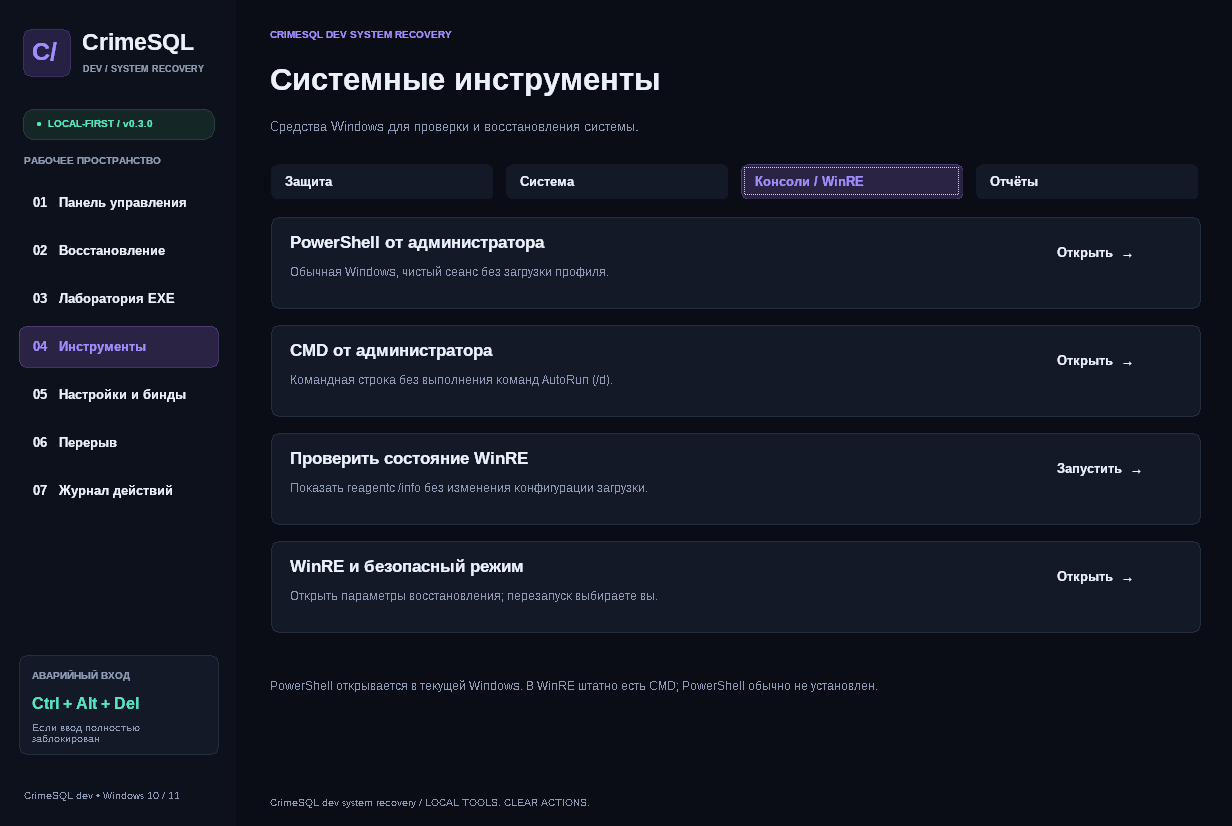
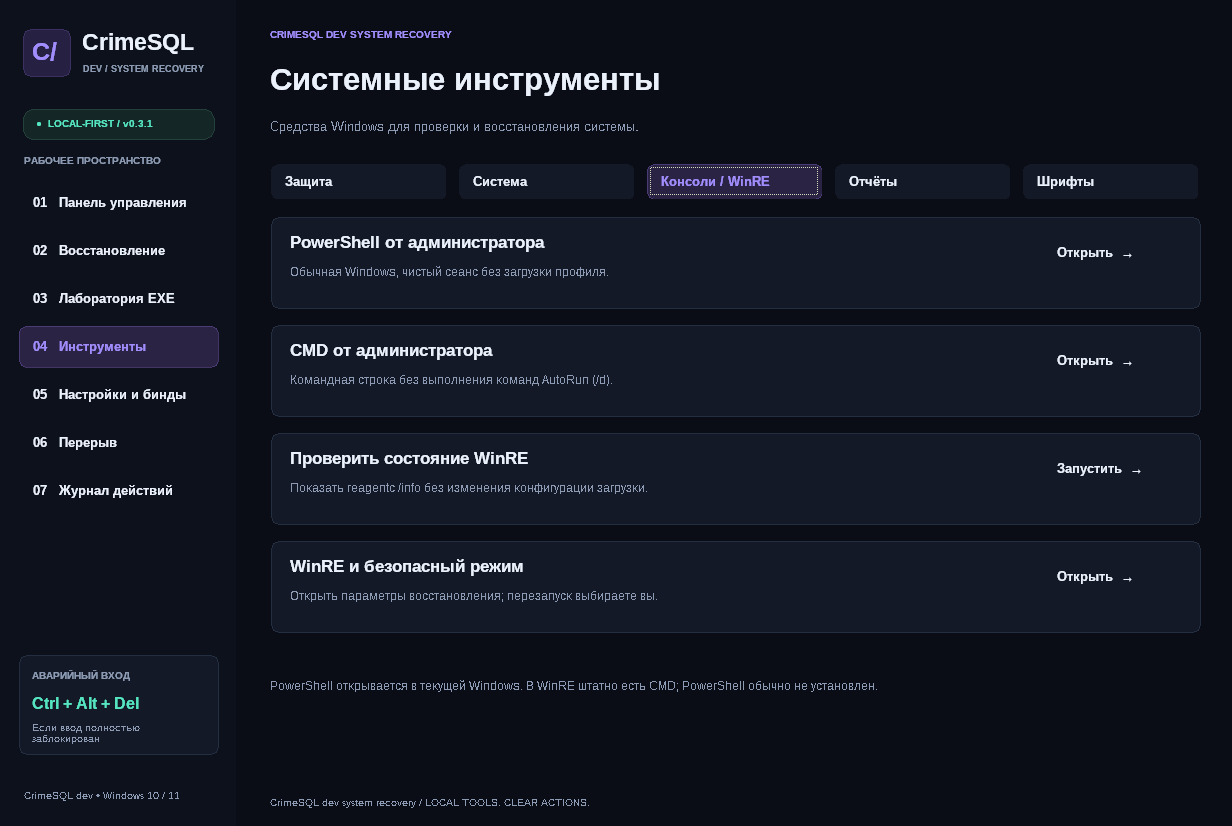
Document font recovery, rollback scope and verified Windows tests

Changed region(s): [[0.5244, 0.1816, 0.8945, 0.2421], [0.3701, 0.2119, 0.4627, 0.2421]]

diff --git a/README.md b/README.md
@@ -1,4 +1,4 @@
-# CrimeSQL dev system recovery · 0.3.0
+# CrimeSQL dev system recovery · 0.3.1
 
 Утилита восстановления Windows 10/11 x64 на C++17 / Win32 / GDI+. Исправленная буферизованная отрисовка, горячие клавиши, средства восстановления Windows, изолированная лаборатория EXE и шесть мини-игр.
 
@@ -6,7 +6,7 @@
 
 Снимок приложения под Wine. Сведения о компьютере относятся к тестовой среде.
 
-[Настройки и бинды](docs/settings-wine.png) · [Мини-игры](docs/games-wine.png) · [Консоли и WinRE](docs/tools-wine.png) · [Журнал безвредных тестовых событий](docs/observer-wine.png)
+[Настройки и бинды](docs/settings-wine.png) · [Мини-игры](docs/games-wine.png) · [Консоли и WinRE](docs/tools-wine.png) · [Восстановление шрифтов](docs/fonts-wine.png) · [Журнал безвредных тестовых событий](docs/observer-wine.png)
 
 ## Скачать и запустить
 
@@ -58,7 +58,7 @@
 
 ## Средства восстановления
 
-Раздел «Инструменты» содержит четыре вкладки:
+Раздел «Инструменты» содержит пять вкладок:
 
 | Вкладка | Возможности |
 |---|---|
@@ -66,6 +66,7 @@
 | Система | SFC `/verifyonly`, SFC `/scannow`, DISM `/Online /Cleanup-Image /RestoreHealth`, точки восстановления |
 | Консоли / WinRE | PowerShell администратора без профиля, CMD администратора без AutoRun, `reagentc /info`, параметры восстановления |
 | Отчёты | Аудит Run/RunOnce, настройки автозагрузки, сведения о системе, экспорт диагностики |
+| Шрифты | Восстановление настроек Segoe UI с копией `.reg`, параметры шрифтов Windows |
 
 **PowerShell администратора работает в текущей Windows. Это не отдельный «режим восстановления».** Для настоящего WinRE откройте «WinRE и безопасный режим», сохраните работу и выберите расширенный запуск в настройках Windows. В штатной WinRE обычно доступна командная строка CMD; PowerShell по умолчанию там не установлен.
 
@@ -74,6 +75,23 @@ SFC и DISM восстанавливают повреждения Windows, а н
 **Автономная проверка Defender перезагружает компьютер.** Она требует отдельного подтверждения, сохранённой работы и настроенного WinRE. При включённом BitLocker подготовьте ключ восстановления. Никаких автоматических перезагрузок при запуске приложения или диагностике нет.
 
 Аудит автозагрузки читает Run/RunOnce в HKCU/HKLM, включая 32-битное представление HKLM, и открывает локальный текстовый отчёт. Он ничего не удаляет и не охватывает службы, задачи планировщика и все способы закрепления. Проверьте личные пути и аргументы команд перед отправкой отчёта кому-либо.
+
+## Вернуть читаемые системные шрифты
+
+Откройте **Инструменты → Шрифты → Вернуть системные шрифты**, подтвердите изменение и запрос администратора Windows. Операция исправляет настройки стандартного семейства Segoe UI:
+
+- восстанавливает его регистрации в 64-битном `HKLM\Software\Microsoft\Windows NT\CurrentVersion\Fonts`;
+- удаляет подмены выбранных начертаний в `FontSubstitutes` HKLM и исходного пользователя, а также его регистрации, перекрывающие эти системные шрифты;
+- возвращает Segoe UI 9 pt для шести значений WindowMetrics: заголовков, малых заголовков, меню, статуса, сообщений и подписей значков;
+- на Windows 11 также обрабатывает Segoe UI Variable, если его файл присутствует. Отсутствующие необязательные начертания не регистрируются.
+
+Перед первой записью создаётся уникальная UTF-16 копия `Backups\Fonts-{GUID}.reg`, включая типы и данные исходных значений и удаление новых значений при откате. Запись и результат перепроверяются; при ошибке приложение пытается отменить свои изменения, не затирая обнаруженные параллельные правки. Ошибка копирования, чтения или отсутствие одного из четырёх основных файлов Segoe UI прерывает операцию до изменений. Некорректные строки, которые Windows нормализует при импорте `.reg`, отклоняются, поскольку точный откат для них не гарантирован.
+
+**После успеха сохраните работу, выйдите из учётной записи Windows и войдите снова.** Приложение не завершает сеанс автоматически. Пользовательские размеры шрифта этих элементов заменяются стандартными 9 pt с учётом системного DPI; остальные установленные шрифты, размеры окон, масштаб экрана и кэш шрифтов не очищаются.
+
+Если UAC выполняется под другой учётной записью администратора, реестр исходного пользователя выбирается по SID, а копия сохраняется в `Backups` той учётной записи, под которой выполняется повышенная операция. Точный полный путь показан в её результате. Для ручного отката проверьте `.reg` и импортируйте его с правами администратора, когда исходный пользователь вошёл в систему: записи `HKEY_USERS` содержат его SID.
+
+Это восстановление **настроек**, а не файлов шрифтов или удаление угроз. Наличие непустого файла не подтверждает его целостность. Если файлы удалены или повреждены, используйте **Инструменты → Система → проверка SFC**, затем при необходимости восстановление SFC/DISM. Шрифты не скачиваются с посторонних сайтов; неизвестные подмены других семейств не удаляются.
 
 ## Настройки, копии и мини-игры
 
@@ -110,3 +128,5 @@ ctest --test-dir build --output-on-failure
 ```
 
 `recovery_tests` проверяет политики и `.reg`. `feature_tests` — бинды, изоляцию конфигурации Sandbox, переименования и пары. `game_tests` — новые игры и команды восстановления. `windows_integration_tests` использует отдельный временный ключ HKCU и безвредную временную папку: проверяет резервные копии, отказы при устаревшем значении и реальные создание/переименование/удаление файлов через ReadDirectoryChangesW. Автозапуск, настройки доступности и реальные системные политики тест не меняет. `ui_tests` запускает отдельный процесс `--ui-test` и проверяет цвета кнопок, нажатия, 84 цикла навигации/размера, сворачивание, GDI-ресурсы и отсутствие таймера на статической странице. Отдельный Windows smoke-тест проверяет запуск PowerShell/CMD, справку SFC/DISM и сведения WinRE без исправлений и перезагрузки. Итоги и оставшиеся ручные проверки — [docs/validation.md](docs/validation.md).
+
+`font_recovery_tests` проверяет реальные записи и откат только во временных ключах реестра, включая импорт `.reg` через reg.exe и отказ в записи по DACL. Настоящие настройки системных шрифтов в тестах не меняются.

diff --git a/docs/validation.md b/docs/validation.md
@@ -1,15 +1,29 @@
-# Проверка версии 0.3.0
+# Проверка версии 0.3.1
+
+## Восстановление шрифтов
+
+Новый `font_recovery_tests` использует только собственные временные ключи HKCU и безвредные файлы, имитирующие наличие шрифтов. Настоящие HKLM Fonts, FontSubstitutes и WindowMetrics пользователя тест не меняет. Под Wine прошла 91 проверка, включая:
+
+- восстановление регистраций Segoe UI и условную обработку Segoe UI Variable;
+- удаление машинных и пользовательских подмен, сохранение посторонних значений;
+- восстановление шести бинарных LOGFONTW, в том числе 9 pt при тестовом DPI 144;
+- отказ до записи при отсутствующем обязательном файле, недопустимом DPI, ошибке создания копии, некорректной строке реестра;
+- настоящий импорт UTF-16 копии через `reg.exe`: восстановление исходных Unicode-строк, бинарных значений, пустого бинарного значения и DWORD, удаление значений, отсутствовавших до ремонта;
+- откат ранних изменений при позднем отказе записи в защищённый DACL временный ключ;
+- получение SID текущего пользователя и отказ помощника при некорректном SID.
+
+UI-тест открывает вкладку «Шрифты», вызывает настоящее подтверждение, проверяет кнопку «Нет» по умолчанию и отказывается от восстановления. Положительный путь с изменением настоящих шрифтов тест не выполняет. Локальный стресс-прогон прошёл; GDI под Wine по-прежнему явно пропущен.
 
 ## Автоматические проверки
 
-- Linux CMake Release с предупреждениями как ошибками: три набора CTest прошли. Политики — 44 проверки; прежние функции — 75; новые игры и команды восстановления — 7709 проверок, включая перебор 569 законченных партий крестиков-ноликов, проверку решаемости пятнашек/Lights Out и последовательности «Саймона».
+- Linux CMake Release с предупреждениями как ошибками: три набора CTest прошли. Политики — 44 проверки; прежние функции — 75; новые игры и команды восстановления — 7715 проверок, включая перебор 569 законченных партий крестиков-ноликов, проверку решаемости пятнашек/Lights Out и последовательности «Саймона».
 - Кросс-сборка Windows x64 через GCC / MinGW-w64 14 с `-Wall -Wextra -Wpedantic -Werror` проходит.
 - Windows-интеграционные проверки под Wine 10: 43 проверки реестра, резервных копий, временных файлов, настоящих уведомлений создания/удаления/переименования, сохранения конфигурации Sandbox и приоритета собственного процесса прошли.
-- Новый `ui_tests` запускает отдельный процесс приложения с тестовыми настройками. Проверяет все семь страниц, шесть игр и четыре категории инструментов, пиксели кнопок при стирании фона/отрисовке/нажатии/наведении, 84 цикла переключений и размеров, сворачивание и восстановление. Проверяется отсутствие таймера на статической странице и расход CPU ниже 150 мс за 600 мс простоя. Локальный прогон под Wine прошёл; измерено 0 мс CPU в этом интервале.
+- Новый `ui_tests` запускает отдельный процесс приложения с тестовыми настройками. Проверяет все семь страниц, шесть игр и пять категорий инструментов, пиксели кнопок при стирании фона/отрисовке/нажатии/наведении, 84 цикла переключений и размеров, сворачивание и восстановление. Проверяется отсутствие таймера на статической странице и расход CPU ниже 150 мс за 600 мс простоя. Локальный прогон под Wine прошёл; измерено 0 мс CPU в этом интервале.
 - Утечки GDI проверяются после прогрева всех страниц: число ресурсов не должно вырасти более чем на 12 после стресс-прогона. Wine не поддерживает GetGuiResources, поэтому **под Wine эта проверка пропущена**, а не считается успешной. На настоящем Windows-раннере нулевой или растущий счётчик приводит к ошибке теста.
-- В GitHub Actions Windows запускает все пять наборов тестов и `windows_readonly_smoke.ps1`. Smoke-тест запускает чистый Windows PowerShell и CMD `/d`, проверяет справку SFC/DISM, запрашивает `reagentc /info`, записывает наличие командлетов Defender. Также разбирает настоящие семь скриптов, сгенерированных C++, через PowerShell Parser, не выполняя их. Машинный отчёт `windows-readonly-smoke.json` включается в ZIP.
+- В GitHub Actions Windows запускает все шесть наборов тестов и `windows_readonly_smoke.ps1`. Smoke-тест запускает чистый Windows PowerShell и CMD `/d`, проверяет справку SFC/DISM, запрашивает `reagentc /info`, записывает наличие командлетов Defender. Также разбирает настоящие семь скриптов, сгенерированных C++, через PowerShell Parser, не выполняя их. Машинный отчёт `windows-readonly-smoke.json` включается в ZIP.
 
-Исходники версии 0.3.0 (`e81a8fd`) прошли [GitHub Actions № 6](https://github.com/Bezsmertny/SU---Added-by-Crimesql/actions/runs/38833007119): оба задания Windows и Linux успешны, включая все пять Windows-наборов, проверку GDI на настоящем Windows и PowerShell smoke-тест. Публикация ZIP разрешена workflow только после успешных заданий Windows и Linux для тега выпуска.
+Исходники версии 0.3.1 (`f30de65`) прошли [GitHub Actions № 9](https://github.com/Bezsmertny/SU---Added-by-Crimesql/actions/runs/38835641996): оба задания Windows и Linux успешны, включая все шесть Windows-наборов, новый font_recovery_tests с настоящим reg.exe и отказом записи по DACL, проверку GDI на настоящем Windows и PowerShell smoke-тест. Публикация ZIP разрешена workflow только после успешных заданий Windows и Linux для тега выпуска.
 
 ## Что исправлено в отрисовке
 
@@ -18,6 +32,8 @@
 Декоративная анимация обновляет небольшую область щита. На статических страницах таймер отключается; ожидание окна операции проверяется раз в секунду. Фоновая декоративная анимация прекращается при деактивации/сворачивании.
 
 ## Границы проверки
+
+Применение к настоящим системным шрифтам после повторного входа, разные языковые сборки Windows и повышение UAC под другой учётной записью вручную не проверены.
 
 Автоматические тесты не запускают вирусы, SFC `/scannow`, DISM RestoreHealth, проверки Defender с удалением угроз, автономную проверку Defender и перезагрузку в WinRE. Это реальные изменяющие/длительные операции, а не безопасные тестовые команды. Их успешное завершение на конкретном ПК **не подтверждено**. Синтаксическая проверка PowerShell не подтверждает успешность восстановления системы.
 

diff --git a/docs/release-notes.md b/docs/release-notes.md
@@ -1,15 +1,13 @@
-CrimeSQL dev system recovery 0.3.0 для Windows 10/11 x64.
+CrimeSQL dev system recovery 0.3.1 для Windows 10/11 x64.
 
-- Исправлена отрисовка кнопок при нажатиях и смене страниц: собственная буферизация, без стандартной белой заливки и массового hide/show.
-- Повторное использование GDI-буферов, перерисовка только области движущегося элемента; на статической странице таймер отключается.
-- Ещё четыре игры: крестики-нолики, пятнашки, «Саймон», Lights Out. Всего шесть.
-- PowerShell и CMD администратора, сведения WinRE и параметры расширенного запуска.
-- SFC для проверки/восстановления, DISM RestoreHealth, точки восстановления.
-- Быстрая и автономная проверка Defender, аудит автозагрузки Run/RunOnce и локальные отчёты.
-- Добавлены автоматические стресс-проверки UI и безопасные проверки штатных инструментов Windows.
+- Новая вкладка Инструменты → Шрифты → Вернуть системные шрифты.
+- Восстановление регистраций Segoe UI, сброс его системных/пользовательских подмен и восстановление шрифтов меню, заголовков, сообщений, статуса и значков.
+- Segoe UI Variable обрабатывается при наличии его файла в Windows 11.
+- Перед записью сохраняется уникальная копия `.reg` в Backups. Ошибки доступа, копирования и отсутствие основных файлов не замалчиваются; при частичном сбое выполняется попытка отката.
+- Проверки на временных ключах реестра включают настоящий импорт копии через reg.exe, сохранение посторонних настроек и откат при отказе записи. UI-тест проверяет подтверждение и отказ без запуска восстановления.
 
 Распакуйте весь ZIP, закройте старую версию и запустите CrimeSQLRecovery.exe. CrimeSQLObserver.exe оставьте рядом.
 
-PowerShell открывается в текущей Windows, не в WinRE. В стандартной WinRE обычно есть CMD, а PowerShell не установлен. Автономная проверка Defender требует подтверждения и перезагружает ПК: сохраните работу и подготовьте ключ BitLocker, если он используется. SFC/DISM исправляют повреждения Windows; они не заменяют антивирус.
+Для применения восстановленных настроек шрифтов сохраните работу, выйдите из учётной записи Windows и войдите снова. Автоматического выхода или перезагрузки нет. Нестандартные размеры шрифта этих элементов заменяются Segoe UI 9 pt с учётом системного DPI. Целостность файлов шрифтов не проверяется и файлы не скачиваются: если они повреждены, используйте SFC/DISM во вкладке «Система».
 
-Ограничения лаборатории Sandbox и восстановления чужих блокировок ввода описаны в README. Исправления системы, автономная проверка и перезагрузка не выполнялись в автоматических тестах.
+Точный путь копии показан в результате. При UAC под другой учётной записью копия хранится в Backups администратора, а настройки исходного пользователя адресуются по SID. Подробности отката и ограничения — в README. Автоматические тесты не меняют настоящие настройки системных шрифтов и не проверяют их применение после выхода из Windows.
